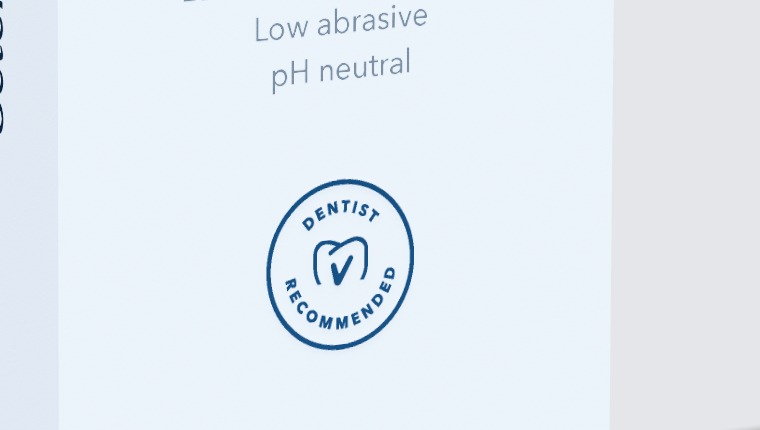
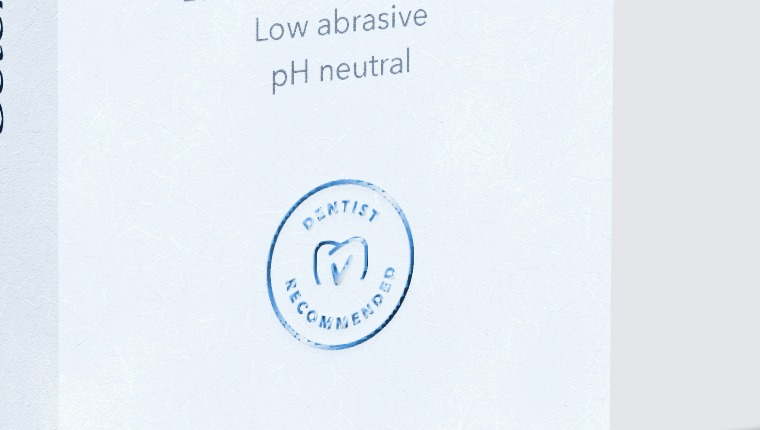
Renders: painted metallic foil ramps, visible paper board, clean bottle edges, wave matched front to back
Foil areas get a multi-stop metallic ramp per element (mist_tex.py); the paper
tile is stretched to a real contrast; labels are kept out of the bottle's
screen-space refraction (no ghost copies at the edge); the mouthwash back
label's wave is eased to meet the front label's at both sides.

Changed region(s): [[0.3329, 0.393, 0.5447, 0.8163]]

diff --git a/_build/studio/studio.html b/_build/studio/studio.html
@@ -87,12 +87,17 @@ const PAPER = (() => { const N = 1024, c = document.createElement('canvas'); c.w
     g.moveTo(x, y); g.quadraticCurveTo(mx, my, x + Math.cos(a) * L, y + Math.sin(a) * L); g.stroke(); }
   const d = g.getImageData(0, 0, N, N), p = d.data;
   for (let i = 0; i < p.length; i += 4) { const v = p[i] + (Math.random() - 0.5) * 26; p[i] = p[i + 1] = p[i + 2] = v; }
+  // stretch to a set contrast (std 40 levels around 128) so the strength params mean the same thing
+  let sum = 0, sq = 0, n = p.length / 4; for (let i = 0; i < p.length; i += 4) { sum += p[i]; sq += p[i] * p[i]; }
+  const mean = sum / n, sd = Math.sqrt(Math.max(1, sq / n - mean * mean));
+  for (let i = 0; i < p.length; i += 4) { const v = 128 + (p[i] - mean) / sd * 40; p[i] = p[i + 1] = p[i + 2] = v; }
   g.putImageData(d, 0, 0); return c; })();
-function paperize(img) { // the artwork with a faint paper fibre pattern multiplied in
+function paperize(img) { // the artwork with the paper tile multiplied in: +-strength around 1 (mottling, fibres, grain)
   const c = canvasOf(img), g = c.getContext('2d'); g.drawImage(img, 0, 0);
-  g.globalCompositeOperation = 'overlay'; g.globalAlpha = parseFloat(params.get('paperink') || '0.16');
-  g.fillStyle = g.createPattern(PAPER, 'repeat'); g.fillRect(0, 0, c.width, c.height);
-  g.globalAlpha = 1; g.globalCompositeOperation = 'source-over'; return c;
+  const pc = canvasOf(img), pg = pc.getContext('2d'); pg.fillStyle = pg.createPattern(PAPER, 'repeat'); pg.fillRect(0, 0, pc.width, pc.height);
+  const d = g.getImageData(0, 0, c.width, c.height), p = d.data, q = pg.getImageData(0, 0, c.width, c.height).data, k = parseFloat(params.get('paperink') || '0.1');
+  for (let i = 0; i < p.length; i += 4) { const f = 1 + (q[i] - 128) / 128 * k; p[i] *= f; p[i + 1] *= f; p[i + 2] *= f; }
+  g.putImageData(d, 0, 0); return c;
 }
 function heightTex(hbSrc, grain, repeat, paper) { // 0.12 + grain (or paper) + raised areas, 8-bit; raised areas (and foil) are smooth
   const c = canvasOf(hbSrc), g = c.getContext('2d');
@@ -100,7 +105,7 @@ function heightTex(hbSrc, grain, repeat, paper) { // 0.12 + grain (or paper) + r
   const d = g.getImageData(0, 0, c.width, c.height), p = d.data;
   let pp = null;
   if (paper && grain) { const pc = canvasOf(hbSrc), pg = pc.getContext('2d'); pg.fillStyle = pg.createPattern(PAPER, 'repeat'); pg.fillRect(0, 0, pc.width, pc.height); pp = pg.getImageData(0, 0, pc.width, pc.height).data; }
-  const PG = parseFloat(params.get('paperbump') || '2.2');
+  const PG = parseFloat(params.get('paperbump') || '2.5');
   for (let i = 0; i < p.length; i += 4) { const h = p[i] / 255, n = pp ? (pp[i] - 128) / 255 * PG : (Math.random() - 0.5);
     const v = Math.max(0, Math.min(255, 31 + n * grain * 255 * (1 - h) + p[i] * HB_AMP)); p[i] = p[i + 1] = p[i + 2] = v; p[i + 3] = 255; }
   g.putImageData(d, 0, 0); return dataTex(c, repeat);
@@ -129,7 +134,9 @@ function foilLayer(geo, colourTex, maskSrc, bump, bumpScale, repeat) {
     metalness: 1, roughness: FOIL_ROUGH, envMap: foilEnv(), envMapIntensity: FOIL_ENV, clearcoat: 0.5, clearcoatRoughness: 0.05,
     polygonOffset: true, polygonOffsetFactor: -2, polygonOffsetUnits: -2 });
   m.envMapRotation = new THREE.Euler(0, Math.PI * FOIL_ROT, 0); m.metalness = FOIL_METALNESS;
-  if (PRO) { m.envMapRotation = new THREE.Euler(0, Math.PI * parseFloat(params.get('envrot') || '-0.15'), 0); m.anisotropy = parseFloat(params.get('foilaniso') || '0.8'); }
+  if (PRO) { // the foil's metallic look is painted into the texture (multi-stop ramps, mist_tex.py); a little real gloss on top
+    m.envMapRotation = new THREE.Euler(0, Math.PI * parseFloat(params.get('envrot') || '-0.15'), 0);
+    m.metalness = parseFloat(params.get('foilmetal') || '0.25'); m.roughness = parseFloat(params.get('foilrough') || '0.25'); m.envMapIntensity = 0.9; m.clearcoat = 0.8; }
   if (bump) { m.bumpMap = bump; m.bumpScale = bumpScale; }
   const mesh = new THREE.Mesh(geo, m); mesh.receiveShadow = true; return mesh;
 }
@@ -363,10 +370,10 @@ function makeBottle() {
     return new THREE.CanvasTexture(c); })();
   [['front', mwFrontImg, mwFrontMetal, mwFrontHB], ['back', mwBackImg, mwBackMetal, mwBackHB]].forEach(([side, img, metalImg, hbImg]) => {
     const geo = labelGeo(side);
-    const printed = new THREE.MeshPhysicalMaterial({ map: tex(img), alphaMap: corners, alphaTest: 0.5, roughness: 0.36, clearcoat: 0.55, clearcoatRoughness: 0.14, bumpMap: plasticGrain, bumpScale: 0.25 });
+    const printed = new THREE.MeshPhysicalMaterial({ map: tex(img), alphaMap: corners, alphaTest: 0.5, transparent: true, depthWrite: true, roughness: 0.36, clearcoat: 0.55, clearcoatRoughness: 0.14, bumpMap: plasticGrain, bumpScale: 0.25 });
     printed.bumpMap.repeat.set(4, 4);
     const labelBump = highBuild(printed, hbImg, 40 / 255, 40 / 255 * 0.25, false);
-    const back = new THREE.MeshStandardMaterial({ color: 0xf2f2ef, roughness: 0.7, alphaMap: corners, alphaTest: 0.5, side: THREE.BackSide });
+    const back = new THREE.MeshStandardMaterial({ color: new THREE.Color('#' + (params.get('lback') || 'F2F2EF')).convertSRGBToLinear(), roughness: 0.7, alphaMap: corners, alphaTest: 0.5, transparent: true, depthWrite: true, side: THREE.BackSide });
     const m1 = new THREE.Mesh(geo, printed); m1.receiveShadow = true; grp.add(m1);
     const labelFoil = foilLayer(geo, printed.map, metalImg, printed.userData.smoothBump, printed.bumpScale, false); if (labelFoil) grp.add(labelFoil);
     grp.add(new THREE.Mesh(geo, back));

diff --git a/_build/studio/mist_cfg.js b/_build/studio/mist_cfg.js
@@ -1,2 +1,2 @@
 // generated by the Mist build (see HANDOFF); read by make_mist_packs.jsx
-var CFG = {"navy":[97,84,46,52],"slate":[60,44,36,6],"claims":[66,51,41,14],"hbName":"SPOT UV - High Build","hbAlt":[0,0,0,15],"badgeSvg":"/Users/hypedesign/Desktop/Archive/Nuvoss/Ovoss Packaging/Dentist badge/Ovoss_Dentist_Recommended_line_type.svg","badgeScale":0.8,"ringMM":0.3,"ranges":{"implant-care":{"name":"Implant Care","paper":[7,2,0,0],"wave":[25,10,2,0],"dark":[95,84,47,52],"foil":[71,39,5,0],"foilName":"FOIL - Implant Care Blue"},"perio-care":{"name":"Perio Care","paper":[1,9,2,0],"wave":[7,26,7,0],"dark":[35,78,41,9],"foil":[28,71,27,1],"foilName":"FOIL - Perio Care Rose"},"daily-care":{"name":"Daily Care","paper":[9,0,8,0],"wave":[28,4,26,0],"dark":[80,44,68,33],"foil":[75,19,71,3],"foilName":"FOIL - Daily Care Green"},"restore":{"name":"Restore","paper":[9,0,4,0],"wave":[31,4,14,0],"dark":[85,44,49,18],"foil":[80,22,39,1],"foilName":"FOIL - Restore Teal"}},"packs":[{"key":"carton","src":"Ovoss_Toothpaste_Carton_75ml.ai","out":"Ovoss_Toothpaste_Carton_75ml_Mist.ai","tints":[[64.87,233.43,235.37,90.43]],"waves":[["Ice wave","Silver wave"]],"seam":{"x0":64.87,"x1":232.37,"backEnd":106.87,"rightStart":190.87},"tex":[{"name":"carton","rect":[0,320.03,276.44,0],"scale":500}],"notesAt":[0,-8]},{"key":"tube","src":"Ovoss_Toothpaste_Tube_Label_75ml.ai","out":"Ovoss_Toothpaste_Tube_Label_75ml_Mist.ai","tints":[[278.35,-68.0,402.35,-180.0]],"waves":[["Ice wave","Silver wave"]],"tex":[{"name":"tube-label","rect":null,"scale":600,"dieLayer":"Dieline - LABEL DIE CUT"}],"notesAt":[280,-190]},{"key":"mw","src":"Ovoss_Mouthwash_Labels_500ml.ai","out":"Ovoss_Mouthwash_Labels_500ml_Mist.ai","tints":[[-2.926,127.9,61.285,-2.729],[77.074,127.9,141.213,-2.729]],"waves":[["Ice wave front","Silver wave front"],["Ice wave back","Silver wave back"]],"tex":[{"name":"mw-front","rect":[0,125,59,0],"scale":700},{"name":"mw-back","rect":[80,125,139,0],"scale":700}],"notesAt":[0,-12]}]};
+var CFG = {"navy":[97,84,46,52],"slate":[60,44,36,6],"claims":[66,51,41,14],"hbName":"SPOT UV - High Build","hbAlt":[0,0,0,15],"badgeSvg":"/Users/hypedesign/Desktop/Archive/Nuvoss/Ovoss Packaging/Dentist badge/Ovoss_Dentist_Recommended_line_type.svg","badgeScale":0.8,"ringMM":0.3,"ranges":{"implant-care":{"name":"Implant Care","paper":[7,2,0,0],"wave":[25,10,2,0],"dark":[95,84,47,52],"foil":[71,39,5,0],"foilName":"FOIL - Implant Care Blue"},"perio-care":{"name":"Perio Care","paper":[1,9,2,0],"wave":[7,26,7,0],"dark":[35,78,41,9],"foil":[28,71,27,1],"foilName":"FOIL - Perio Care Rose"},"daily-care":{"name":"Daily Care","paper":[9,0,8,0],"wave":[28,4,26,0],"dark":[80,44,68,33],"foil":[75,19,71,3],"foilName":"FOIL - Daily Care Green"},"restore":{"name":"Restore","paper":[9,0,4,0],"wave":[31,4,14,0],"dark":[85,44,49,18],"foil":[80,22,39,1],"foilName":"FOIL - Restore Teal"}},"packs":[{"key":"carton","src":"Ovoss_Toothpaste_Carton_75ml.ai","out":"Ovoss_Toothpaste_Carton_75ml_Mist.ai","tints":[[64.87,233.43,235.37,90.43]],"waves":[["Ice wave","Silver wave"]],"seam":{"x0":64.87,"x1":232.37,"backEnd":106.87,"rightStart":190.87},"tex":[{"name":"carton","rect":[0,320.03,276.44,0],"scale":500}],"notesAt":[0,-8]},{"key":"tube","src":"Ovoss_Toothpaste_Tube_Label_75ml.ai","out":"Ovoss_Toothpaste_Tube_Label_75ml_Mist.ai","tints":[[278.35,-68.0,402.35,-180.0]],"waves":[["Ice wave","Silver wave"]],"tex":[{"name":"tube-label","rect":null,"scale":600,"dieLayer":"Dieline - LABEL DIE CUT"}],"notesAt":[280,-190]},{"key":"mw","src":"Ovoss_Mouthwash_Labels_500ml.ai","out":"Ovoss_Mouthwash_Labels_500ml_Mist.ai","tints":[[-2.926,127.9,61.285,-2.729],[77.074,127.9,141.213,-2.729]],"waves":[["Ice wave front","Silver wave front"],["Ice wave back","Silver wave back"]],"ends":[null,{"x0":80,"x1":139,"ease":18,"left":{"ice":9.71,"sil":13.03},"right":{"ice":11.33,"sil":11.5}}],"tex":[{"name":"mw-front","rect":[0,125,59,0],"scale":700},{"name":"mw-back","rect":[80,125,139,0],"scale":700}],"notesAt":[0,-12]}]};

diff --git a/_build/studio/make_mist_packs.jsx b/_build/studio/make_mist_packs.jsx
@@ -64,6 +64,21 @@
     return p.name + " ends " + y0.toFixed(2) + " / " + y1.toFixed(2) + " -> " + h.toFixed(2);
   }
 
+  // mouthwash back label: ease its two ends to the front label's wave heights, which sit next to them on the bottle
+  function easeEnds(p, e, key) {
+    var pts = p.pathPoints, n = pts.length, ybot = 1e9, k, top = [];
+    for (k = 0; k < n; k++) ybot = Math.min(ybot, pts[k].anchor[1]);
+    for (k = 0; k < n; k++) if (pts[k].anchor[1] > ybot + 0.01 * MM) top.push(pts[k].anchor);
+    function yAt(xmm) { var x = xmm * MM, lo = null, hi = null;
+      for (var j = 0; j < top.length; j++) { var a = top[j]; if (a[0] <= x && (!lo || a[0] > lo[0])) lo = a; if (a[0] >= x && (!hi || a[0] < hi[0])) hi = a; }
+      if (!lo) return hi[1] / MM; if (!hi || hi[0] == lo[0]) return lo[1] / MM; return (lo[1] + (hi[1] - lo[1]) * (x - lo[0]) / (hi[0] - lo[0])) / MM; }
+    var dl = e.left[key] - yAt(e.x0), dr = e.right[key] - yAt(e.x1);
+    for (k = 0; k < n; k++) { var a = pts[k].anchor; if (a[1] <= ybot + 0.01 * MM) continue; var x = a[0] / MM, c = 0, t;
+      if (x <= e.x0 + e.ease) { t = Math.max(0, Math.min(1, (x - e.x0) / e.ease)); c += dl * (0.5 + 0.5 * Math.cos(Math.PI * t)); }
+      if (x >= e.x1 - e.ease) { t = Math.max(0, Math.min(1, (e.x1 - x) / e.ease)); c += dr * (0.5 + 0.5 * Math.cos(Math.PI * t)); }
+      if (c) { var ny = a[1] + c * MM; pts[k].anchor = [a[0], ny]; pts[k].leftDirection = [a[0], ny]; pts[k].rightDirection = [a[0], ny]; } }
+    return p.name + " ends -> " + e.left[key] + " / " + e.right[key];
+  }
   function topEdge(p) { // the wave's top edge anchors, left to right (the wave paths are 1 mm polylines with a flat base)
     var pts = p.pathPoints, ybot = 1e9, out = [], k;
     for (k = 0; k < pts.length; k++) ybot = Math.min(ybot, pts[k].anchor[1]);
@@ -118,6 +133,7 @@
       for (var wi = 0; wi < P.waves.length; wi++) {
         var ice = byName(d, P.waves[wi][0]), sil = byName(d, P.waves[wi][1]);
         if (P.seam) { log.push(fixSeam(ice, P.seam)); log.push(fixSeam(sil, P.seam)); }
+        if (P.ends && P.ends[wi]) { log.push(easeEnds(ice, P.ends[wi], "ice")); log.push(easeEnds(sil, P.ends[wi], "sil")); }
         ice.fillColor = WAVE;
         // the visible trim: between the fill's top edge and the trim's top edge, wherever the trim sits above the fill.
         // Cut out wherever a barcode's white box sits, so no foil (or high build) lands on the barcode.

diff --git a/_build/studio/mist_tex.py b/_build/studio/mist_tex.py
@@ -8,6 +8,7 @@ tex/mist-raw/<name>-hb.png     the high build layer alone, on white   -> tex/mis
 tex/mist-raw/<range>/carton.png  each range's carton colours          -> tex/mist-<range>/carton.png (+ the carton masks)
 """
 import shutil
+from collections import deque
 from pathlib import Path
 import numpy as np
 from PIL import Image
@@ -27,6 +28,67 @@ def mask(path):
     return np.clip((d @ ink) / (ink @ ink), 0, 1)
 
 
+# Foil look: each foil element gets its own multi-stop metallic ramp (dark, mid, light, highlight, back down, a
+# second softer light band), across it at 35 degrees, built from that pixel's own foil colour. Long thin elements
+# (the wave trim) repeat the ramp every ~40 mm so it reads as reflections running along it. Joey, 11 Nov.
+RAMP = [(0.00, -0.72), (0.18, -0.25), (0.34, 0.55), (0.44, 0.97), (0.54, 0.40), (0.70, -0.68), (0.84, 0.30),
+        (0.92, -0.10), (1.00, -0.72)]   # higher contrast, fewer and longer bands (Joey, 11 Nov)
+
+
+def ramp(t):
+    xs, ys = zip(*RAMP)
+    return np.interp(t, xs, ys)
+
+
+def label(mask, step=4):
+    """Connected foil elements on a 1/step grid (8-connected); returns a full-size label image (0 = none)."""
+    small = mask[::step, ::step] > 0.3
+    lab = np.zeros(small.shape, np.int32); n = 0
+    for y, x in zip(*np.where(small)):
+        if lab[y, x]:
+            continue
+        n += 1; q = deque([(y, x)]); lab[y, x] = n
+        while q:
+            cy, cx = q.popleft()
+            for dy in (-1, 0, 1):
+                for dx in (-1, 0, 1):
+                    yy, xx = cy + dy, cx + dx
+                    if 0 <= yy < small.shape[0] and 0 <= xx < small.shape[1] and small[yy, xx] and not lab[yy, xx]:
+                        lab[yy, xx] = n; q.append((yy, xx))
+    full = np.kron(lab, np.ones((step, step), np.int32))[:mask.shape[0], :mask.shape[1]]
+    # grow labels a little so anti-aliased edges belong to their element
+    return full, n
+
+
+def metallic(col_path, mask_path, px_per_mm):
+    col = np.asarray(Image.open(col_path).convert('RGB')).astype(np.float32)
+    m = np.asarray(Image.open(mask_path).convert('L')).astype(np.float32) / 255
+    lab, n = label(m)
+    out = col.copy()
+    a = np.radians(35); ca, sa = np.cos(a), np.sin(a)
+    for k in range(1, n + 1):
+        ys, xs = np.where(lab == k)
+        if len(xs) < 4:
+            continue
+        y0, y1, x0, x1 = ys.min(), ys.max() + 1, xs.min(), xs.max() + 1
+        w, h = x1 - x0, y1 - y0
+        yy, xx = np.mgrid[y0:y1, x0:x1].astype(np.float32)
+        proj = (xx - x0) * ca + (yy - y0) * sa
+        span = w * ca + h * sa
+        period = 60 * px_per_mm if w > 4 * h else span * 1.2   # long trims repeat every ~60 mm; others spread a touch wider
+        t = (proj / max(period, 1)) % 1.0
+        s = ramp(t)[..., None]
+        base = col[y0:y1, x0:x1]
+        shaded = np.where(s < 0, base * (1 + s), base + (255 - base) * s)
+        mm = m[y0:y1, x0:x1][..., None] * (lab[y0:y1, x0:x1] == k)[..., None]
+        out[y0:y1, x0:x1] = out[y0:y1, x0:x1] * (1 - mm) + shaded * mm
+    Image.fromarray(np.clip(out + 0.5, 0, 255).astype(np.uint8)).save(col_path)
+    return n
+
+
+PXMM = {'carton': 3920 / 276.44, 'tube-label': 1938 / 114, 'mw-front': 1169 / 59, 'mw-back': 1169 / 59}
+
+
 def main():
     OUT.mkdir(parents=True, exist_ok=True)
     for f in sorted(RAW.glob('*.png')):
@@ -36,13 +98,13 @@ def main():
         for kind, suffix in (('foil', 'metal'), ('hb', 'hb')):
             m = mask(RAW / f'{f.stem}-{kind}.png')
             Image.fromarray((m * 255 + 0.5).astype(np.uint8)).save(OUT / f'{f.stem}-{suffix}.png')
-        print('mist', f.name)
+        print('mist', f.name, 'foil elements', metallic(OUT / f.name, OUT / f'{f.stem}-metal.png', PXMM[f.stem]))
     for d in sorted(p for p in RAW.iterdir() if p.is_dir()):
         o = HERE / 'tex' / f'mist-{d.name}'; o.mkdir(parents=True, exist_ok=True)
         shutil.copy(d / 'carton.png', o / 'carton.png')
         for s in ('metal', 'hb'):
             shutil.copy(OUT / f'carton-{s}.png', o / f'carton-{s}.png')
-        print('mist-' + d.name)
+        print('mist-' + d.name, 'foil elements', metallic(o / 'carton.png', o / 'carton-metal.png', PXMM['carton']))
 
 
 if __name__ == '__main__':
